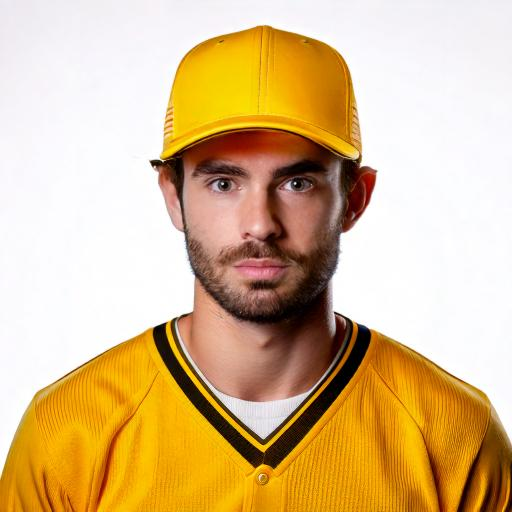
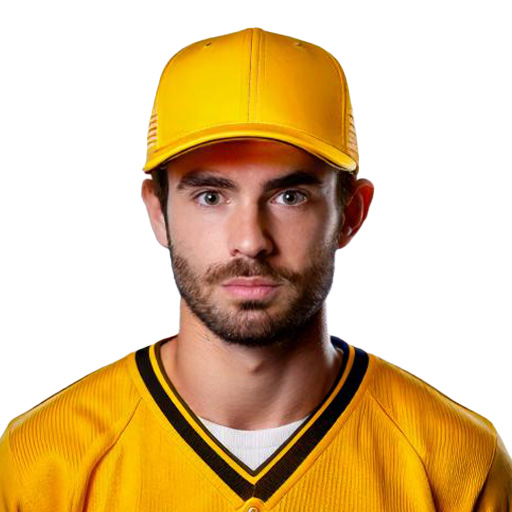
kermit

diff --git a/players.js b/players.js
@@ -57,7 +57,7 @@ const players = [
         bioLink: 'http://bratinstitute.com'},
     { no: 29, name: "Niko Serrano", pos: "INF", year: "Junior", ht: "6'0\"", wt: "185 lbs", hometown: "Winston-Salem, N.C.", school: "Oak Grove HS", bt: "L/R", image: "images/29 Niko Serrano.jpg",
         bioLink: 'http://bratinstitute.com'},
-    { no: 30, name: "Kermit Grastan", pos: "UT", year: "Junior", ht: "6'1\"", wt: "0 lbs", hometown: "Brookline, Mass.", school: "Brookline HS", bt: "R/R", image: "images/30 Kermit Grastan.png",
+    { no: 30, name: "Kermit Grastan", pos: "UT", year: "Junior", ht: "6'1\"", wt: "0 lbs", hometown: "Brookline, Mass.", school: "Brookline HS", bt: "R/R", image: "images/30 Kermit Grastan.jpg",
         bioLink: 'http://bratinstitute.com'},
     { no: 31, name: "Chris McCrystal", pos: "LHP", year: "Senior", ht: "6'3\"", wt: "215 lbs", hometown: "Golden, Colo.", school: "Golden HS", bt: "L/L", image: "images/31 Chris McCrystal.png",
         bioLink: 'http://bratinstitute.com'},
